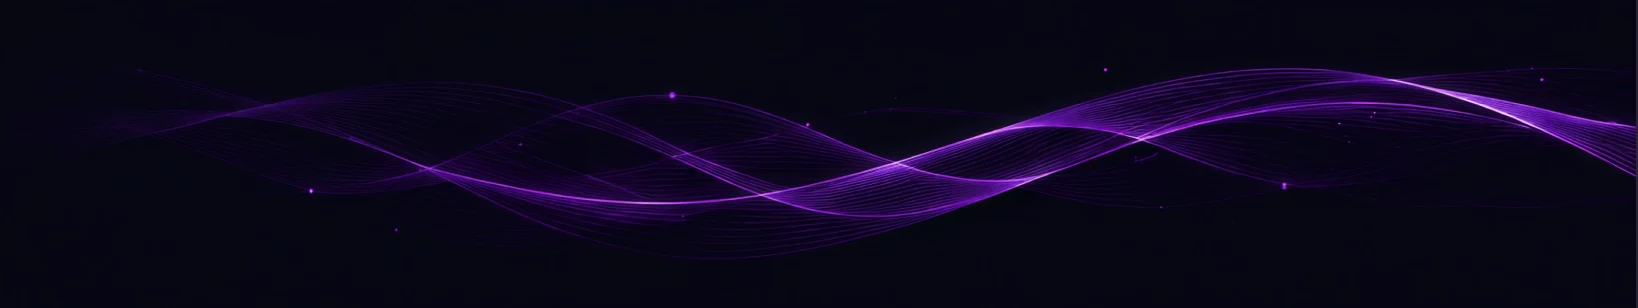
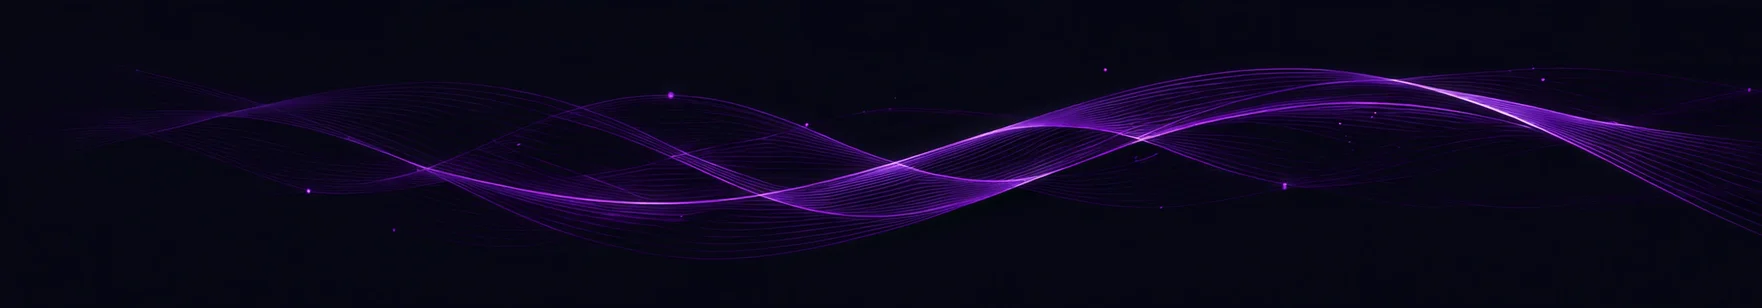
fix(dashboard): match the hero title gradient and background layers to the redesignThe Sambanova. text gradient now uses the Figma angle and stops, and thespan gets the 132x30 text box so the angle renders the same. The herobackground gradient uses the exact Figma values, and the two blurredpurple g

diff --git a/src/features/dashboard/components/hero-banner.tsx b/src/features/dashboard/components/hero-banner.tsx
@@ -1,22 +1,33 @@
 import Image from "next/image";
 
-import { illustrations } from "@/config/assets";
+import { heroGlows, illustrations } from "@/config/assets";
 
 import { HeroActions } from "./hero-actions";
 
 /** Dashboard hero: the page's <h1>, three quick actions and the animated-wave artwork. */
 export function HeroBanner() {
   const wave = illustrations.heroWave;
+  const { left: glowLeft, right: glowRight } = heroGlows;
 
   return (
     <section
       aria-labelledby="dashboard-hero"
       className="relative overflow-hidden rounded-lg border border-default bg-hero px-4 py-6 sm:p-7.5"
     >
-      {/* Decorative; hidden below desktop width, and each theme shows its own variant. */}
+      {/*
+        Decorative artwork, hidden below desktop width. Dark theme (Figma `1907:196251`): a glow
+        behind the title, the wave and a second glow over it; each layer keeps its Figma box (the
+        glows include their blur margin). Light theme keeps its own wave.
+      */}
       <div
         aria-hidden="true"
-        className="pointer-events-none absolute top-3 right-0 hidden lg:block"
+        className="pointer-events-none absolute top-[-100.8px] left-[-182.5px] hidden h-[386.4px] w-[497.949px] -scale-x-100 lg:show-in-dark"
+      >
+        <Image src={glowLeft.src} alt="" fill unoptimized />
+      </div>
+      <div
+        aria-hidden="true"
+        className="pointer-events-none absolute top-2.75 -right-15.5 hidden lg:show-in-dark"
       >
         <Image
           src={wave.dark}
@@ -24,22 +35,29 @@ export function HeroBanner() {
           width={wave.width}
           height={wave.height}
           priority
-          className="show-in-dark max-w-none"
+          className="max-w-none"
         />
+      </div>
+      <div
+        aria-hidden="true"
+        className="pointer-events-none absolute top-3 right-0 hidden lg:show-in-light"
+      >
         <Image
           src={wave.light}
           alt=""
           width={wave.lightWidth}
           height={wave.lightHeight}
           priority
-          className="show-in-light max-w-none"
+          className="max-w-none"
         />
       </div>
       <div className="relative flex flex-col gap-7">
         <div className="flex flex-col gap-1.5">
           <h1 id="dashboard-hero" className="text-heading-xl">
             Build AI applications faster with{" "}
-            <span className="text-hero-accent font-semibold tracking-wide">Sambanova.</span>
+            <span className="inline-block text-hero-accent font-semibold tracking-wide">
+              Sambanova.
+            </span>
           </h1>
           <p className="text-body-sm text-secondary">
             Blazing fast inference. Enterprise ready. Built for developers.
@@ -47,6 +65,13 @@ export function HeroBanner() {
         </div>
 
         <HeroActions />
+      </div>
+
+      <div
+        aria-hidden="true"
+        className="pointer-events-none absolute top-[-93.7px] right-[-151.6px] hidden h-[372.887px] w-[891.285px] lg:show-in-dark"
+      >
+        <Image src={glowRight.src} alt="" fill unoptimized />
       </div>
     </section>
   );

diff --git a/src/styles/tokens.css b/src/styles/tokens.css
@@ -307,8 +307,8 @@
   --sn-code-keyword: var(--sn-syntax-purple-dark);
 
   /* Gradients */
-  --sn-gradient-hero: linear-gradient(90deg, #131313 0%, #070614 33%, #070714 100%);
-  --sn-gradient-hero-accent: linear-gradient(104deg, #ebab0e 0%, #c881ff 100%);
+  --sn-gradient-hero: linear-gradient(89.77deg, #131313 0%, #070614 32.68%, #070714 99.96%);
+  --sn-gradient-hero-accent: linear-gradient(138.56deg, #ebab0e 6.81%, #c881ff 46.8%);
   --sn-gradient-promo: radial-gradient(
     120% 140% at 15% 0%,
     #3d115a 0%,
@@ -571,7 +571,7 @@
   --sn-code-keyword: var(--sn-syntax-purple-light);
 
   --sn-gradient-hero: linear-gradient(90deg, #ffffff 0%, #f5ebfe 25%, #f3ebfe 100%);
-  --sn-gradient-hero-accent: linear-gradient(104deg, #db7504 0%, #8335bb 100%);
+  --sn-gradient-hero-accent: linear-gradient(138.56deg, #db7504 6.81%, #8335bb 46.8%);
   --sn-gradient-promo: linear-gradient(110deg, #ffffff 0%, #ead8ff 100%);
   --sn-gradient-playground:
     radial-gradient(60% 55% at 30% 0%, rgb(152 71 214 / 0.14) 0%, transparent 70%),
@@ -814,7 +814,7 @@
     --sn-code-keyword: var(--sn-syntax-purple-light);
 
     --sn-gradient-hero: linear-gradient(90deg, #ffffff 0%, #f5ebfe 25%, #f3ebfe 100%);
-    --sn-gradient-hero-accent: linear-gradient(104deg, #db7504 0%, #8335bb 100%);
+    --sn-gradient-hero-accent: linear-gradient(138.56deg, #db7504 6.81%, #8335bb 46.8%);
     --sn-gradient-promo: linear-gradient(110deg, #ffffff 0%, #ead8ff 100%);
     --sn-gradient-playground:
       radial-gradient(60% 55% at 30% 0%, rgb(152 71 214 / 0.14) 0%, transparent 70%),

diff --git a/src/config/assets.ts b/src/config/assets.ts
@@ -30,7 +30,7 @@ export const illustrations = {
   heroWave: {
     dark: "/illustrations/hero-wave-dark.webp",
     light: "/illustrations/hero-wave-light.webp",
-    width: 819,
+    width: 881,
     height: 154,
     lightWidth: 704,
     lightHeight: 174,
@@ -60,6 +60,15 @@ export const illustrations = {
     height: 61,
   },
 } satisfies Record<string, ThemedImage>;
+
+/**
+ * Dashboard hero glows (Figma `1907:196252` and `1907:196264`): blurred purple shapes drawn
+ * behind and over the wave, dark theme only. Sizes include the blur margin baked into the SVG.
+ */
+export const heroGlows = {
+  left: { src: "/illustrations/hero-glow-left.svg", width: 498, height: 386 },
+  right: { src: "/illustrations/hero-glow-right.svg", width: 891, height: 373 },
+} satisfies Record<string, StaticImage>;
 
 export const emptyStates = {
   apiKeys: { src: "/illustrations/empty-api-keys.webp", width: 210, height: 132 },
